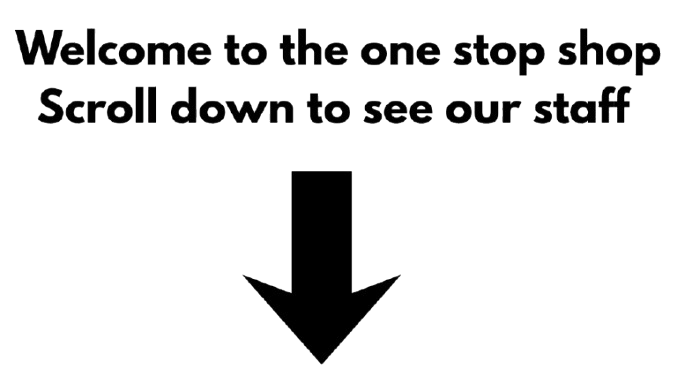
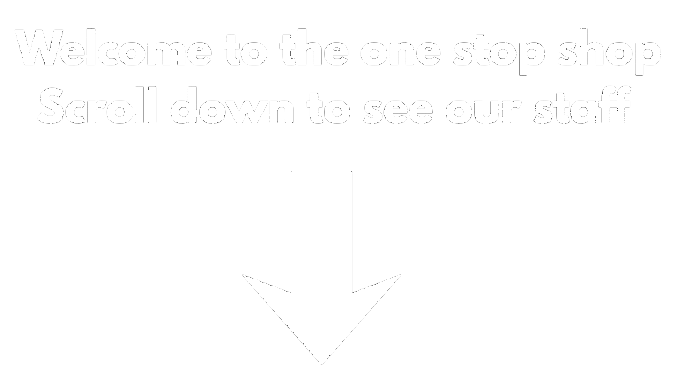
Add files via upload
UHH POO

Changed region(s): [[0.0, 0.0596, 0.9926, 0.2087], [0.3412, 0.4472, 0.5894, 0.9837], [0.031, 0.2087, 0.9306, 0.3577]]

diff --git a/index.html b/index.html
@@ -18,7 +18,7 @@
     <section class="hero">
         <div class="container">
             <h1>The One Stop Shop.</h1>
-            <p>wagwan mushy peas. Welcome to the underground.</p>
+            <p>for all your needs.</p>
             <img src="myphoto.jpg" alt="ma dawg">
         </div>
     </section>
@@ -27,7 +27,7 @@
     <!-- GALLERY SECTION -->
     <section class="gallery">
 
-        <h2>My Gallery</h2>
+        <h2>Meet the Staff</h2>
 
         <div class="image-grid">
 

diff --git a/style.css b/style.css
@@ -33,9 +33,9 @@ body {
 }
 
 .container img {
-    width: 300px;
-    height: 300px;
-    object-fit: cover;
+    width: 600px;
+    max-width: 90vw;
+    height: auto;
     border-radius: 15px;
 }
 
